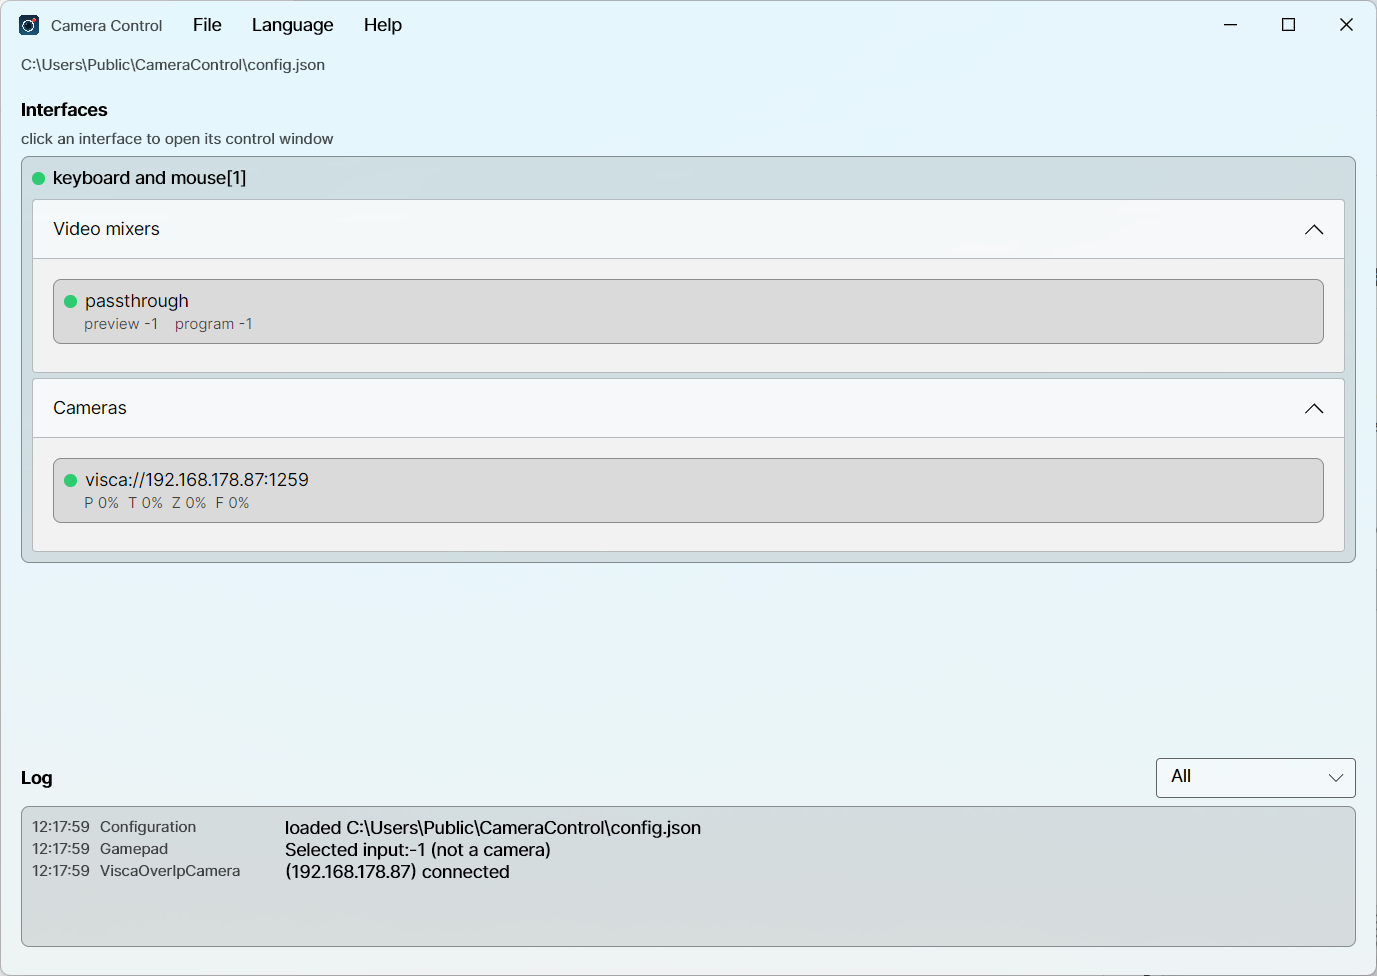
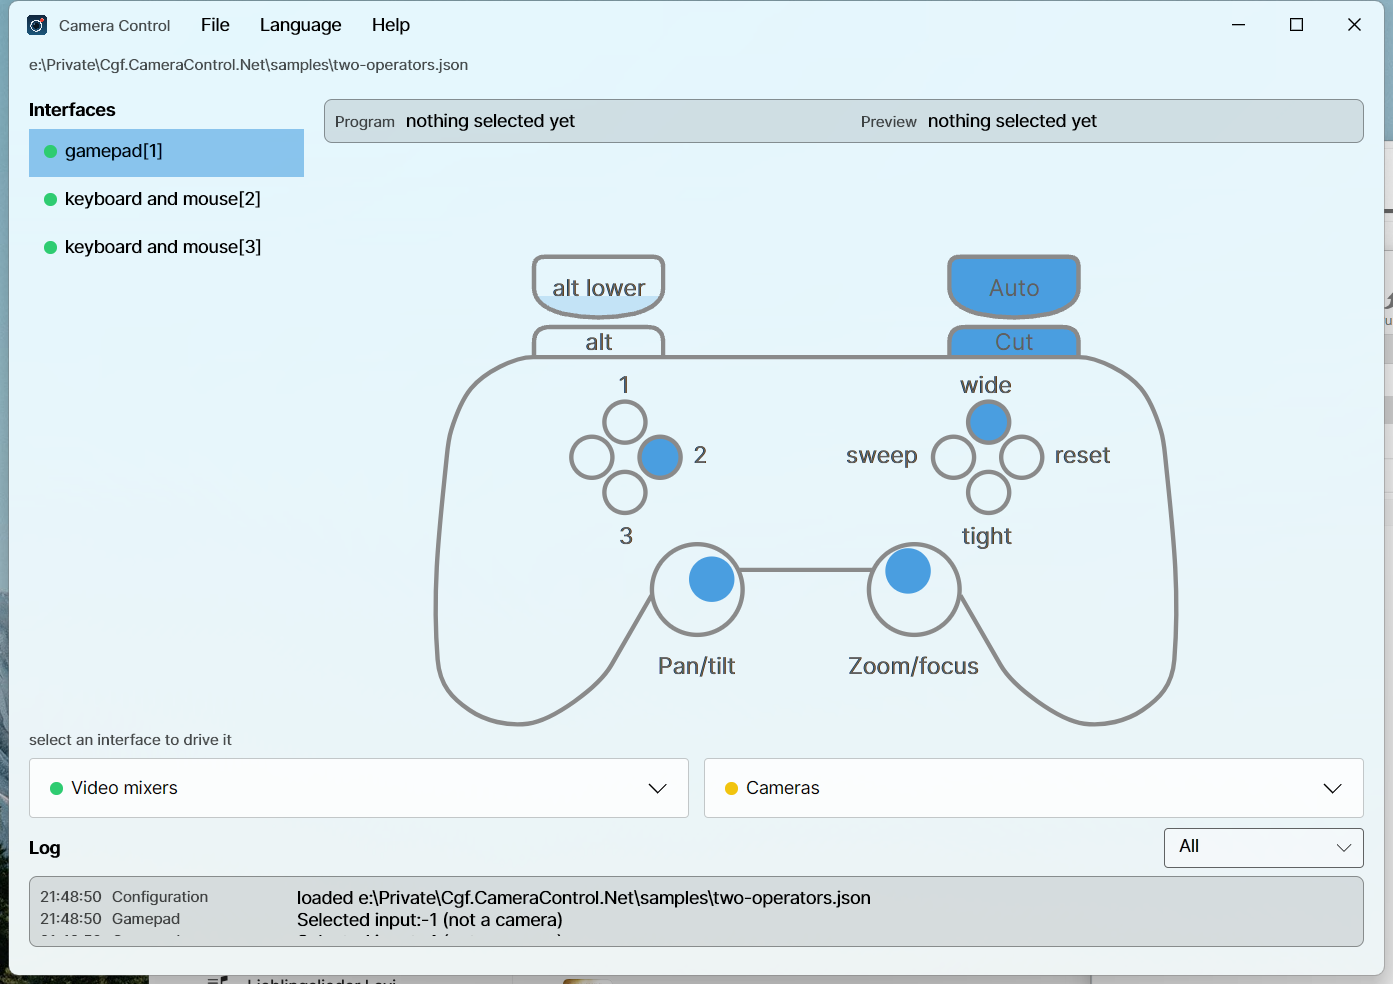
Show the window in the docs

diff --git a/README.md b/README.md
@@ -21,10 +21,12 @@ which is TypeScript and headless. It reads the same configuration files.
 - **Runs the switcher.** Cut, auto, keyer toggles, macros, and a macro toggle that picks one of two
   macros from the live state of a keyer or an auxiliary output.
 - **Lights the tally.** Cameras that carry a tally light follow the preview and program buses.
-- **Shows what is happening.** Every interface with the mixer and the cameras it drives underneath
-  it, and a log you can filter by component.
-- **Runs without a controller.** Clicking an interface opens a control window: two mouse pads for the
-  two sticks, and the keyboard for everything else.
+- **Shows what is happening.** Select an interface and the window draws it: a pad as a wireframe
+  whose buttons light as they are pressed, labelled with what each one does right now. Mixers and
+  cameras sit underneath with one lamp each, and a log you can filter by component.
+- **Runs without a controller.** A keyboard interface is a small mixer panel: a program and a preview
+  row of the inputs, cut and auto, every configured function, a mouse pad for pan and tilt and two
+  sliders for zoom and focus. Every key is configurable.
 - **Rumbles** on a transition, when one of your cameras goes on air, and when a connection drops.
 
 ## Install
@@ -64,7 +66,8 @@ a laptop.
       "instance": 1,
       "videoMixer": 1,
       "connectionChange": { "type": "direct", "default": { "up": 1, "right": 2, "down": 3, "left": 4 } },
-      "specialFunction": { "default": { "down": { "type": "key", "index": 1 } } },
+      "functions": { "wide": { "type": "key", "index": 1 } },
+      "pad": { "default": { "down": "wide" } },
       "cameraMap": { "1": 1 }
     }
   ]
@@ -73,6 +76,9 @@ a laptop.
 
 A problem with one entry is reported against that entry and the rest still load, so a typo in one
 camera does not take the desk down with it.
+
+Every key of every entry is described in [docs/Configuration](docs/Configuration/README.md).
+[samples/two-operators.json](samples/two-operators.json) puts a pad and two keyboards on one mixer.
 
 ### Cameras
 
@@ -99,7 +105,7 @@ against and what a VISCA camera has to accept to work at all.
 | Left stick | pan and tilt |
 | Right stick | zoom and focus |
 | D-pad | change the preview selection |
-| A / B / X / Y | special function bound to down / right / left / up |
+| A / B / X / Y | the function `pad` binds to down / right / left / up |
 | Right shoulder | cut |
 | Right trigger | auto |
 | Left shoulder | hold for the `alt` bindings |
@@ -109,24 +115,22 @@ SDL normalises every controller to this one layout, so `gamepad` is the only int
 matters. The old `logitech/F310`, `logitech/F710` and `logitech/Rumblepad2` strings still load, but
 they are labels now rather than behaviour.
 
-### The control window
+### The keyboard panel
 
-Clicking an interface opens it. The two pads are the two sticks: drag inside one and let go to stop.
-The keyboard drives the same interface, whether or not a controller is bound to it.
+![A keyboard interface](docs/images/interface-keyboard.png)
 
-| Key | Does |
-| --- | --- |
-| `W` `A` `S` `D` | pan and tilt |
-| `I` `K` / `J` `L` | zoom / focus |
-| Arrow keys | change the preview selection |
-| `1` `2` `3` `4` | the special functions bound to down, right, left and up |
-| `Enter` / `Space` | cut / auto |
-| `Shift` / `Ctrl` | hold for the `alt` and `altLower` bindings |
+An interface of type `keyboard` is driven from the window. It is laid out like a mixer: the inputs
+twice, once to put on program and once on preview, cut and auto between the rows, and every function
+from `functions` to the right. Each button names the key that also fires it and lights while that
+key is held. Below them the mouse takes the sticks' place: a pad for pan and tilt, and a slider each
+for zoom and focus. Drag and let go, and each springs back to the middle and stops the camera.
 
-An interface of type `keyboard` has no controller behind it at all and takes the same configuration
-as a `gamepad`, minus `serialNumber` and `deadzone`. One with a controller behind it accepts both at
-once: the pad and the window are two sets of hands on one interface rather than two interfaces
-fighting over the same cameras.
+Nothing about the keys is fixed. Pan, tilt, zoom, focus, the selection steps, the inputs, the
+functions, cut and auto are each bound in `keys`, and only what is bound appears on the panel.
+[docs/Configuration/Interfaces.md](docs/Configuration/Interfaces.md) has every key name.
+
+A desk that wants a pad and a keyboard on the same mixer configures one interface of each kind
+against the same `videoMixer`.
 
 Two controllers on one machine are told apart by `serialNumber`. That is an absolute filter, never a
 preference: an interface whose serial is not present stays unbound and says so, because putting an
@@ -188,7 +192,8 @@ uploaded.
 it is under and the full text of that licence: what the package published for itself where it
 published anything, and the text of the SPDX identifier it declared otherwise. Report and texts are
 committed and compiled into the binary by `Cgf.CameraControl.Licenses.Generator`, so showing them
-costs nothing at run time and they cannot drift from what is actually shipped. A licence with no text
+costs nothing at run time and they cannot drift from what is actually shipped. The artwork the window
+draws is listed the same way, from a hand-written report beside the package one. A licence with no text
 fails the build rather than leaving an empty page. Regenerate all of it after changing a package
 reference:
 

diff --git a/docs/Configuration/Interfaces.md b/docs/Configuration/Interfaces.md
@@ -62,12 +62,23 @@ A modifier only overrides the default where it has something bound for that butt
 labels each face with the function it would run right now, so the drawing follows the held modifier.
 
 A pad interface is not driven from the window. The wireframe shows what the pad is doing; it is not
-a control to click.
+a control to click. Each button carries the name of what pressing it would do right now, and a
+direction whose input is on preview or program is tinted in that bus's colour.
+
+![A gamepad interface, with the right shoulder and two buttons held](../images/interface-gamepad.png)
 
 ## `keyboard`
 
 Every key it answers to is in the file. Nothing is bound that is not named here, and nothing named
 here is left off the panel, so the window and the file say the same thing.
+
+![A keyboard interface: the input rows, cut and auto, the functions, the pan and tilt pad and the zoom and focus sliders](../images/interface-keyboard.png)
+
+The panel is a small mixer: a program row and a preview row of the same inputs, cut and auto between
+them, and every configured function to the right. Each button names the key that also fires it, and
+lights while that key is held. Below them the mouse takes the sticks' place: a pad for pan and tilt,
+and a slider each for zoom and focus. Drag and let go, and each springs back to the middle and stops
+the camera.
 
 ```json
 {
